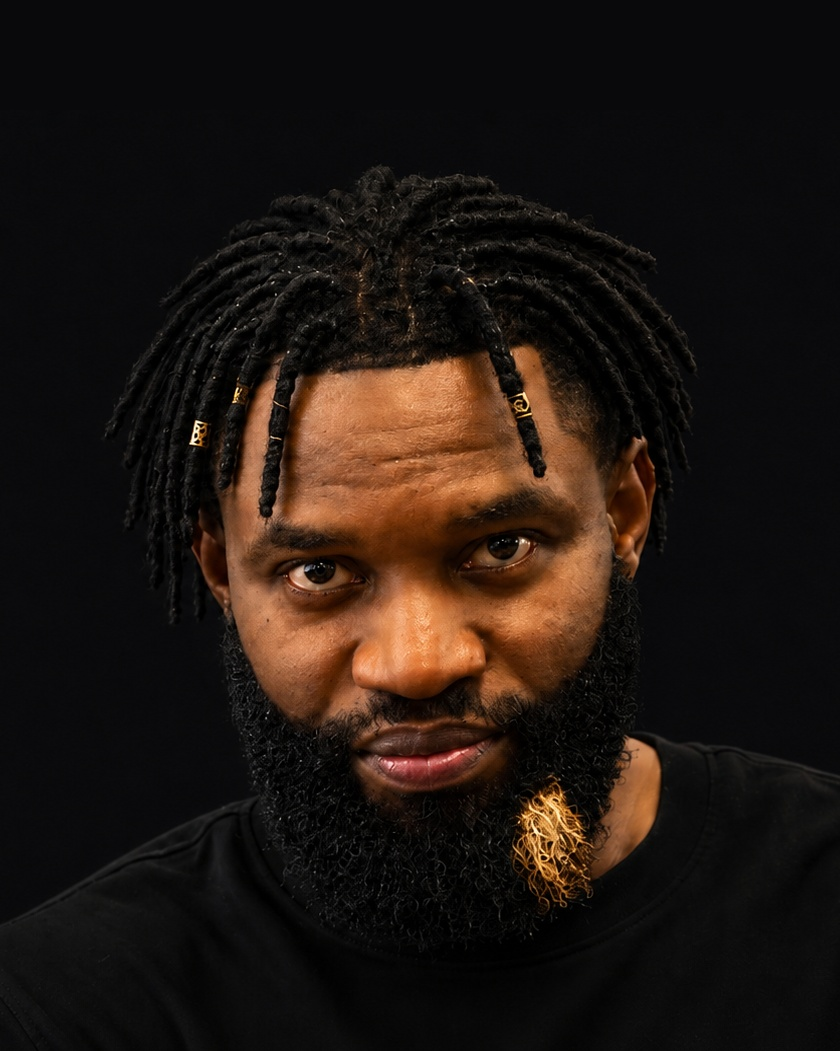
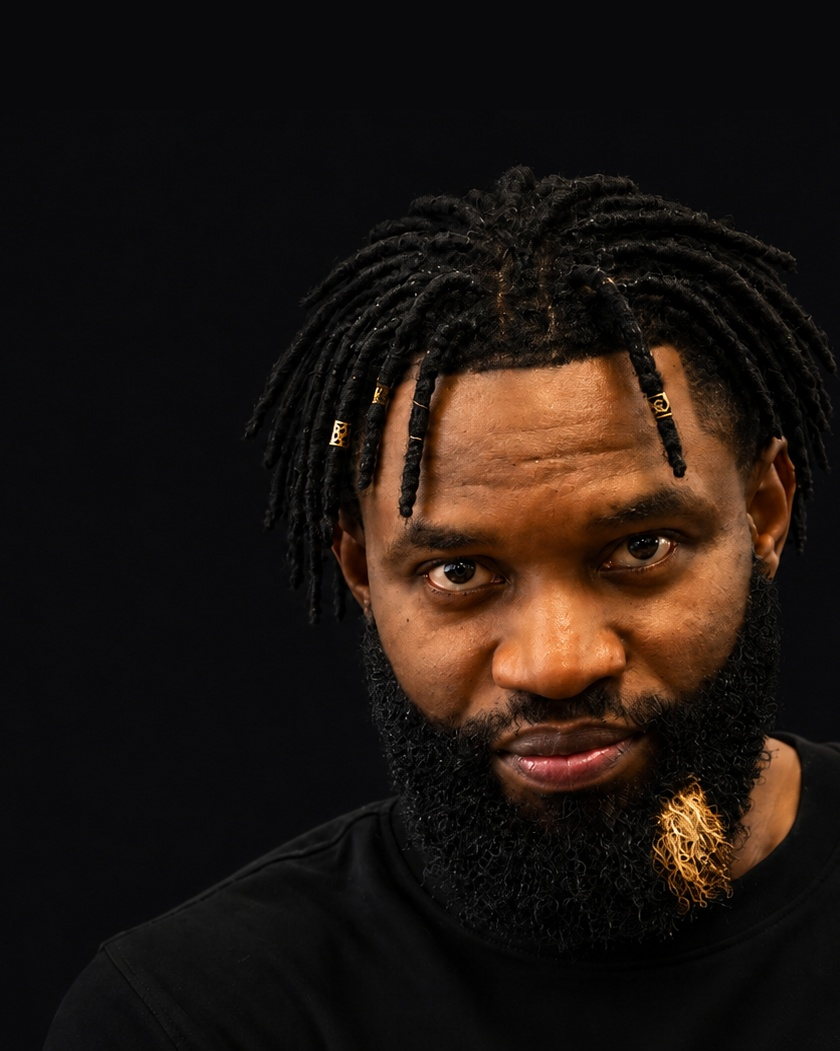
Shift photo further to the right in About section

diff --git a/about.html b/about.html
@@ -74,9 +74,9 @@
 
   <section class="section">
     <div class="container about-hero-grid">
-      <!-- BLOC 1 : PHOTO DÉCALÉE LÉGÈREMENT À DROITE -->
-      <div class="about-photo-card" style="margin-left: 16px;">
-        <img src="images/about-man-portrait.jpg?v=2" alt="Client at Bab Nazareth Barbershop" loading="lazy">
+      <!-- BLOC 1 : PHOTO DÉCALÉE DAVANTAGE À DROITE -->
+      <div class="about-photo-card" style="margin-left: 54px;">
+        <img src="images/about-man-portrait.jpg?v=3" alt="Client at Bab Nazareth Barbershop" loading="lazy">
       </div>
 
       <!-- BLOC 2 : TEXTE DU SALON CONDENSÉ ET COMPACT -->
